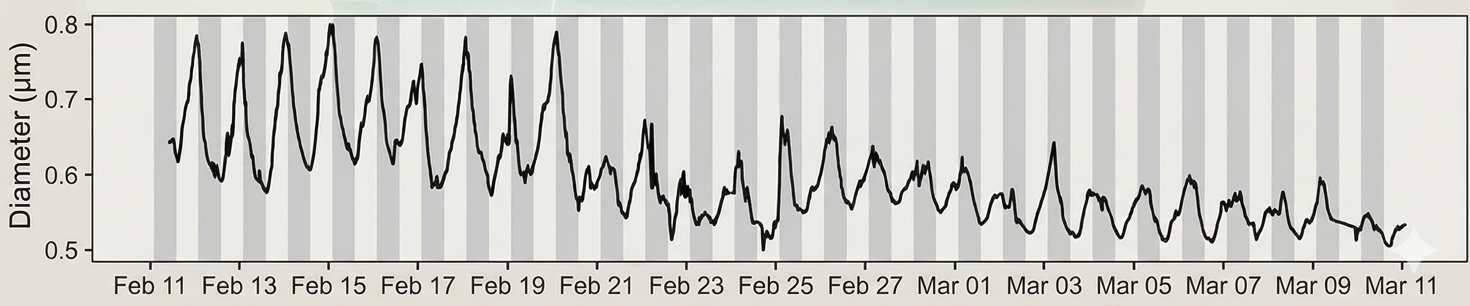
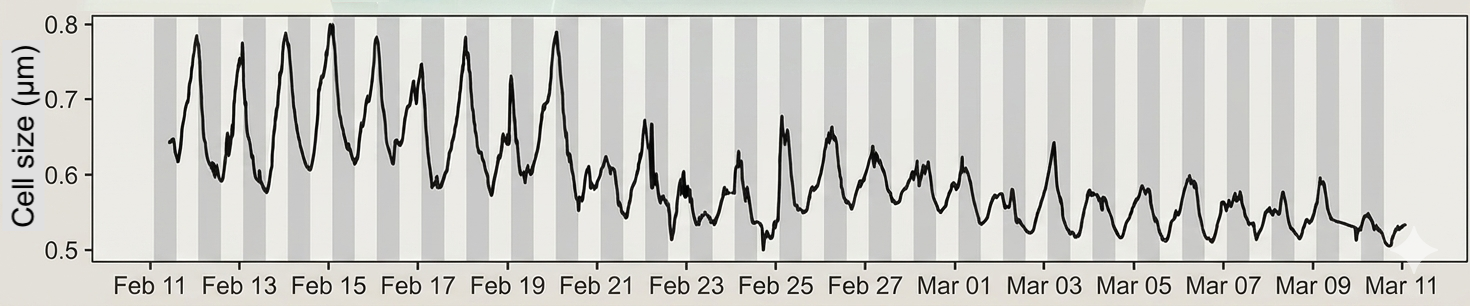
changed images

Changed region(s): [[0.0, 0.3824, 0.0306, 0.7647], [0.0, 0.1471, 0.0306, 0.3529]]

diff --git a/content/research/_index.md b/content/research/_index.md
@@ -7,7 +7,7 @@ view: card
 # Optional header image (relative to `assets/media/` folder).
 banner:
   caption: ''
-  image: dusk.jpg
+  image: cruisetracks.jpg
 ---  
 We are a biological oceanography group at the University of Washington, studying how phytoplankton, the microscopic photosynthetic organisms that support ocean life and help regulate Earth's climate, respond as the ocean warms. We use automated instruments like SeaFlow, our shipboard flow cytometer, to track these communities across thousands of miles of open ocean. We then combine these measurements with statistical and machine learning methods to test what controls their growth and survival.
 